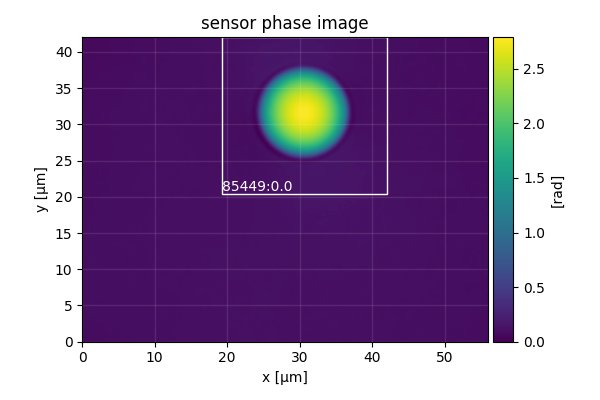
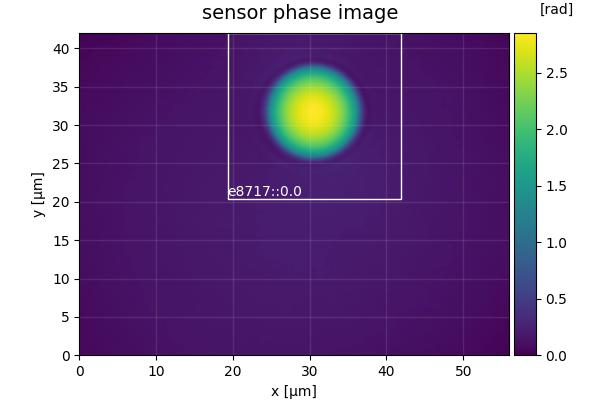
docs: update tutorial figures

diff --git a/drymass/cli/plot.py b/drymass/cli/plot.py
@@ -144,7 +144,7 @@ def plot_image(data, ax=None, imtype="phase", cbar=True, px_um=None,
 def plot_qpi_phase(qpi, rois=None, path=None):
     """Plot phase data"""
     fig = plt.figure(figsize=(6, 4))
-    ax1 = plt.subplot(111, title="sensor phase image")
+    ax1 = plt.subplot(111)
     px_um = qpi["pixel size"] * 1e6
     plot_image(data=qpi.pha,
                ax=ax1,
@@ -169,7 +169,13 @@ def plot_qpi_phase(qpi, rois=None, path=None):
                      horizontalalignment="left",
                      verticalalignment="bottom",
                      color="w")
-    plt.tight_layout()
+    plt.tight_layout(rect=(0, 0, 1, .93), pad=.1)
+
+    fig.text(x=.5, y=.99, s="sensor phase image",
+             verticalalignment="top",
+             horizontalalignment="center",
+             fontsize=14)
+
     if path:
         fig.savefig(path)
         plt.close()
@@ -216,8 +222,8 @@ def plot_qpi_sphere(qpi_real, qpi_sim, path=None, simtype="simulation"):
              transform=ax2.transAxes,
              )
 
-    # phase difference
-    ax3 = plt.subplot(233, title="phase difference")
+    # phase residuals
+    ax3 = plt.subplot(233, title="phase residuals")
     errmax = qpi_sim.pha.max() * .2
     plot_image(data=qpi_sim.pha - real_phase, ax=ax3,
                imtype="phase error", vmax=errmax, vmin=-errmax,
@@ -265,7 +271,7 @@ def plot_qpi_sphere(qpi_real, qpi_sim, path=None, simtype="simulation"):
     for ax in [ax2, ax3, ax5]:
         ax.set_ylabel("")
 
-    plt.tight_layout(rect=(0, 0, 1, .95), pad=.1, h_pad=.6)
+    plt.tight_layout(rect=(0, 0, 1, .93), pad=.1, h_pad=.6)
 
     # add identifier
     fig.text(x=.5, y=.99, s=qpi_sim["identifier"],

diff --git a/docs/tutorials/t03_make_figures.py b/docs/tutorials/t03_make_figures.py
@@ -64,8 +64,8 @@ cli.plot.plot_image(qe2[1], ax=axes[1, 2], **kwerr)
 
 for ii in range(axes.shape[0]):
     axes[ii, 0].set_title("input phase")
-    axes[ii, 1].set_title("tilt error")
-    axes[ii, 2].set_title("poly2o error")
+    axes[ii, 1].set_title("tilt residuals")
+    axes[ii, 2].set_title("poly2o residuals")
 
     axes[ii, 1].set_ylabel("")
     axes[ii, 2].set_ylabel("")
@@ -112,8 +112,8 @@ cli.plot.plot_image(te2[1], ax=axes[1, 2], **kwerr)
 
 for ii in range(axes.shape[0]):
     axes[ii, 0].set_title("input phase")
-    axes[ii, 1].set_title("error without mask")
-    axes[ii, 2].set_title("error with mask")
+    axes[ii, 1].set_title("residuals, no mask")
+    axes[ii, 2].set_title("residuals, with mask")
     axes[ii, 1].set_ylabel("")
     axes[ii, 2].set_ylabel("")
 
@@ -147,7 +147,7 @@ cli.plot.plot_image(bd, ax=axes[0], **kwplt)
 cli.plot.plot_image(be, ax=axes[1], **kwerr)
 
 axes[0].set_title("input phase")
-axes[1].set_title("phase error")
+axes[1].set_title("phase residuals")
 axes[1].set_ylabel("")
 
 plt.tight_layout(pad=0)

diff --git a/docs/tutorials/t01_make_figures.py b/docs/tutorials/t01_make_figures.py
@@ -1,0 +1,27 @@
+from drymass import cli
+import imageio
+
+path = "QLSR_PAA_beads"
+
+# setup output directory
+path_in, path_out = cli.dialog.main(path)
+
+# set metadata
+cfg = cli.config.ConfigFile(path_out)
+cfg.set_value("meta", "medium index", 1.335)
+cfg.set_value("meta", "pixel size um", 0.14)
+cfg.set_value("meta", "wavelength nm", 647)
+
+# perform analysis
+cli.cli_analyze_sphere(path=path_in)
+
+# get first sensor image
+senpath = path_out / cli.FILE_SENSOR_WITH_ROI_IMAGE
+sentif = imageio.imread(senpath)
+imageio.imsave("_t01_sensor_roi_image.jpg", sentif[..., :3])
+
+# get first sphere image
+roipath = path_out / cli.FILE_SPHERE_ANALYSIS_IMAGE.format("edge",
+                                                           "projection")
+roitif = imageio.imread(roipath)
+imageio.imsave("_t01_sphere_edge_projection_image.jpg", roitif[..., :3])

diff --git a/docs/tutorials/t03_background_geometry.rst b/docs/tutorials/t03_background_geometry.rst
@@ -6,17 +6,19 @@ T3: Correcting for background and geometry (CLI)
 
 Introduction
 ------------
-Often, the input data are not optimal, for instance due to limitations
-of the measuring setup. DryMass offers several ways of dealing with
-the resulting artifacts. This tutorial uses polyacrylamide (PAA) bead
-measurements that were artificially altered to reproduce the following
-list of artifacts:
+In practice, recorded phase data is often subject to a non-linear
+background phase due to limitations of the measuring setup.
+Furthermore, the measured objects (e.g. cells, beads, liquid droplets)
+might be positioned too close to each other or the imaged region. 
+DryMass offers several ways of dealing with the resulting artifacts.
+This tutorial uses polyacrylamide (PAA) bead measurements that were
+artificially altered to simulate the following cases:
 
-1. A constant offset in the phase image.
-2. A linear tilt in the phase image along one coordinate axis.
-3. A linear tilt in the phase image along both coordinate axes.
-4. A quadradic phase distortion along one axis and a phase tilt along the other axis.
-5. Quadradic phase distortions along both coordinate axes.
+1. A constant offset in the phase background.
+2. A linear tilt in the phase background along one coordinate axis.
+3. A linear tilt in the phase background along both coordinate axes.
+4. A quadratic phase distortion along one axis and a phase tilt along the other axis.
+5. Quadratic phase distortions along both coordinate axes.
 6. Two beads that are close to each other.
 7. All of the above.
 8. A bead that is cut at the image border.
@@ -52,7 +54,8 @@ Please open the output folder (*QLSR_PAA_beads_bg-modified.h5_dm*) and
 take a look at the file *sensor_roi_images.tif*. You can see
 the different artifacts discussed above (offset, tilt, etc.). In the file
 *sphere_edge_projection_images.tif*, you see that the default
-background correction strategy does not work for all measurements.
+background correction strategy works for the offset and tilt artifacts,
+but fails when the background phase has quadratic components.
 Furthermore, notice that for the last three measurements no regions of interest
 (ROIs) were detected with the default parameters. As a result, these
 three measurements are not represented in *sphere_edge_projection_images.tif*.
@@ -80,13 +83,13 @@ Now the background is sufficiently flat for the first five ROIs.
     a phase tilt along the other. The second row shows a quadratic
     background phase along both coordinate axes. The first column
     shows the raw input phase, and the second and third columns show
-    the phase error when using the tilt and poly2o correction for
+    the phase residuals when using the tilt and poly2o correction for
     a sphere analysis based on the edge-detection algorithm.
 
 
 Include beads that are close to each other
 ------------------------------------------
-DryMass automatically removes ROIs that are very close to each other, as
+DryMass automatically removes ROIs that are close to each other, as
 this might have a negative effect on the subsequent analysis steps. To include
 these beads, we lift this restriction by modifying the *[roi]* section:
 
@@ -99,7 +102,7 @@ In *sensor_roi_images.tif*, you can see that the ROIs of the beads
 are now included in the analysis. However, in
 *sphere_edge_projection_images.tif* you observe that the second bead
 seems to have a negative effect on the background correction. To resolve
-this issue, we set a binary threshold in the original image above which
+this issue, we set a binary threshold in the original ROI above which
 no data is used for background correction. Since it is difficult to set
 such a threshold manually, we use one of the threshold filters implemented
 in scikit-image that works well for this example: `threshold_triangle
@@ -127,7 +130,7 @@ includes all but one bead.
 Include beads at the border of the sensor image
 -----------------------------------------------
 By default, all ROIs that are within ten pixels of the border of the
-sensor image are removed from the analysis. We can inlcude all ROIs
+sensor image are removed from the analysis. We can include all ROIs
 by setting this distance to zero:
 
 .. code-block:: none
@@ -135,8 +138,8 @@ by setting this distance to zero:
   [roi]
   dist border px = 0
 
-The bead in the final measurement is now included in the analysis.
-
+The bead in the final measurement is now included in the analysis,
+yielding values for refractive index and radius.
 
 .. figure:: t03_bead_border.jpg
 
@@ -145,6 +148,10 @@ The bead in the final measurement is now included in the analysis.
 
 Exact determination of radius and refractive index
 --------------------------------------------------
+At this point, the tutorial is already complete in the sense that all
+cases given in the introduction have been covered. However, the residuals
+of the sphere model are still large, which can be attributed to the
+default analysis method of `dm_analyze_sphere`:
 The edge-detection algorithm, as implemented in DryMass, causes an
 underestimation of the beads radii and thus an overestimation of the
 refractive index. To retrieve more reliable results, we modify the
@@ -157,9 +164,14 @@ approximation (see :cite:`Mueller2018`):
   method = image
   model = rytov-sc
 
+In addition to the previously achieved flat phase background for each ROI,
+this approach minimizes phase residuals and results in more accurate values
+for refractive index and size of the PAA beads. 
+
 .. figure:: t03_summary_rytov-sc.jpg
 
-    Phase errors when fitting with the Rytov approximation. The plots
-    correspond to the different cases presented in the introduction.
-    The residuals are reduced signigicantly when compared to the
-    edge-detection approach (all figures above).
+    Phase residuals when fitting with the Rytov approximation. The plots
+    correspond to the different cases presented in the introduction,
+    demonstrating correct background correction and object identification.
+    The residuals are reduced significantly when compared to the
+    edge-detection approach (compare figures above).

diff --git a/docs/tutorials/t01_ri_bead.rst b/docs/tutorials/t01_ri_bead.rst
@@ -37,7 +37,7 @@ the refractive index of the surrounding medium (1.335), the
 detector pixel size in microns (0.14), and the wavelength in
 nanometers (647). Simply type in these values (press the `Enter`
 key to let DryMass acknowledge each input). On Windows, this
-will look similar to this (2.5x time lapse):
+will look similar to this:
 
 .. figure:: t01_analyze_sphere.gif
 
